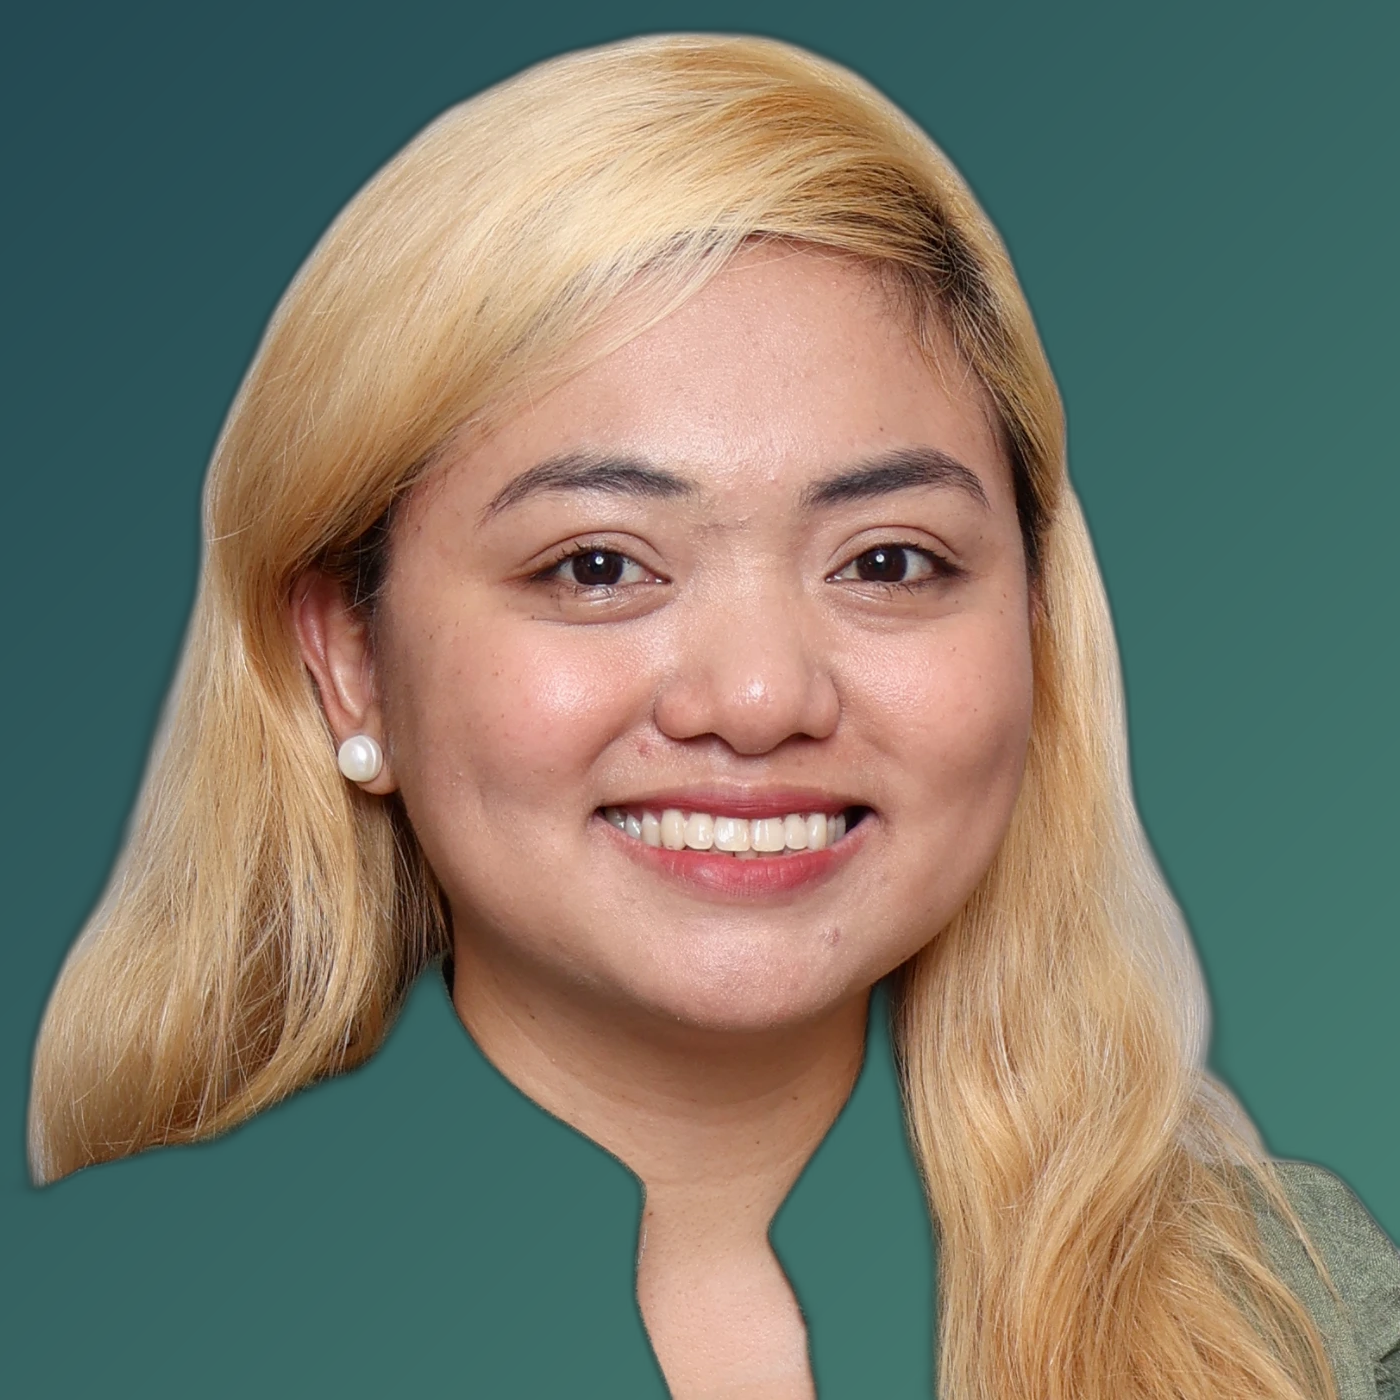
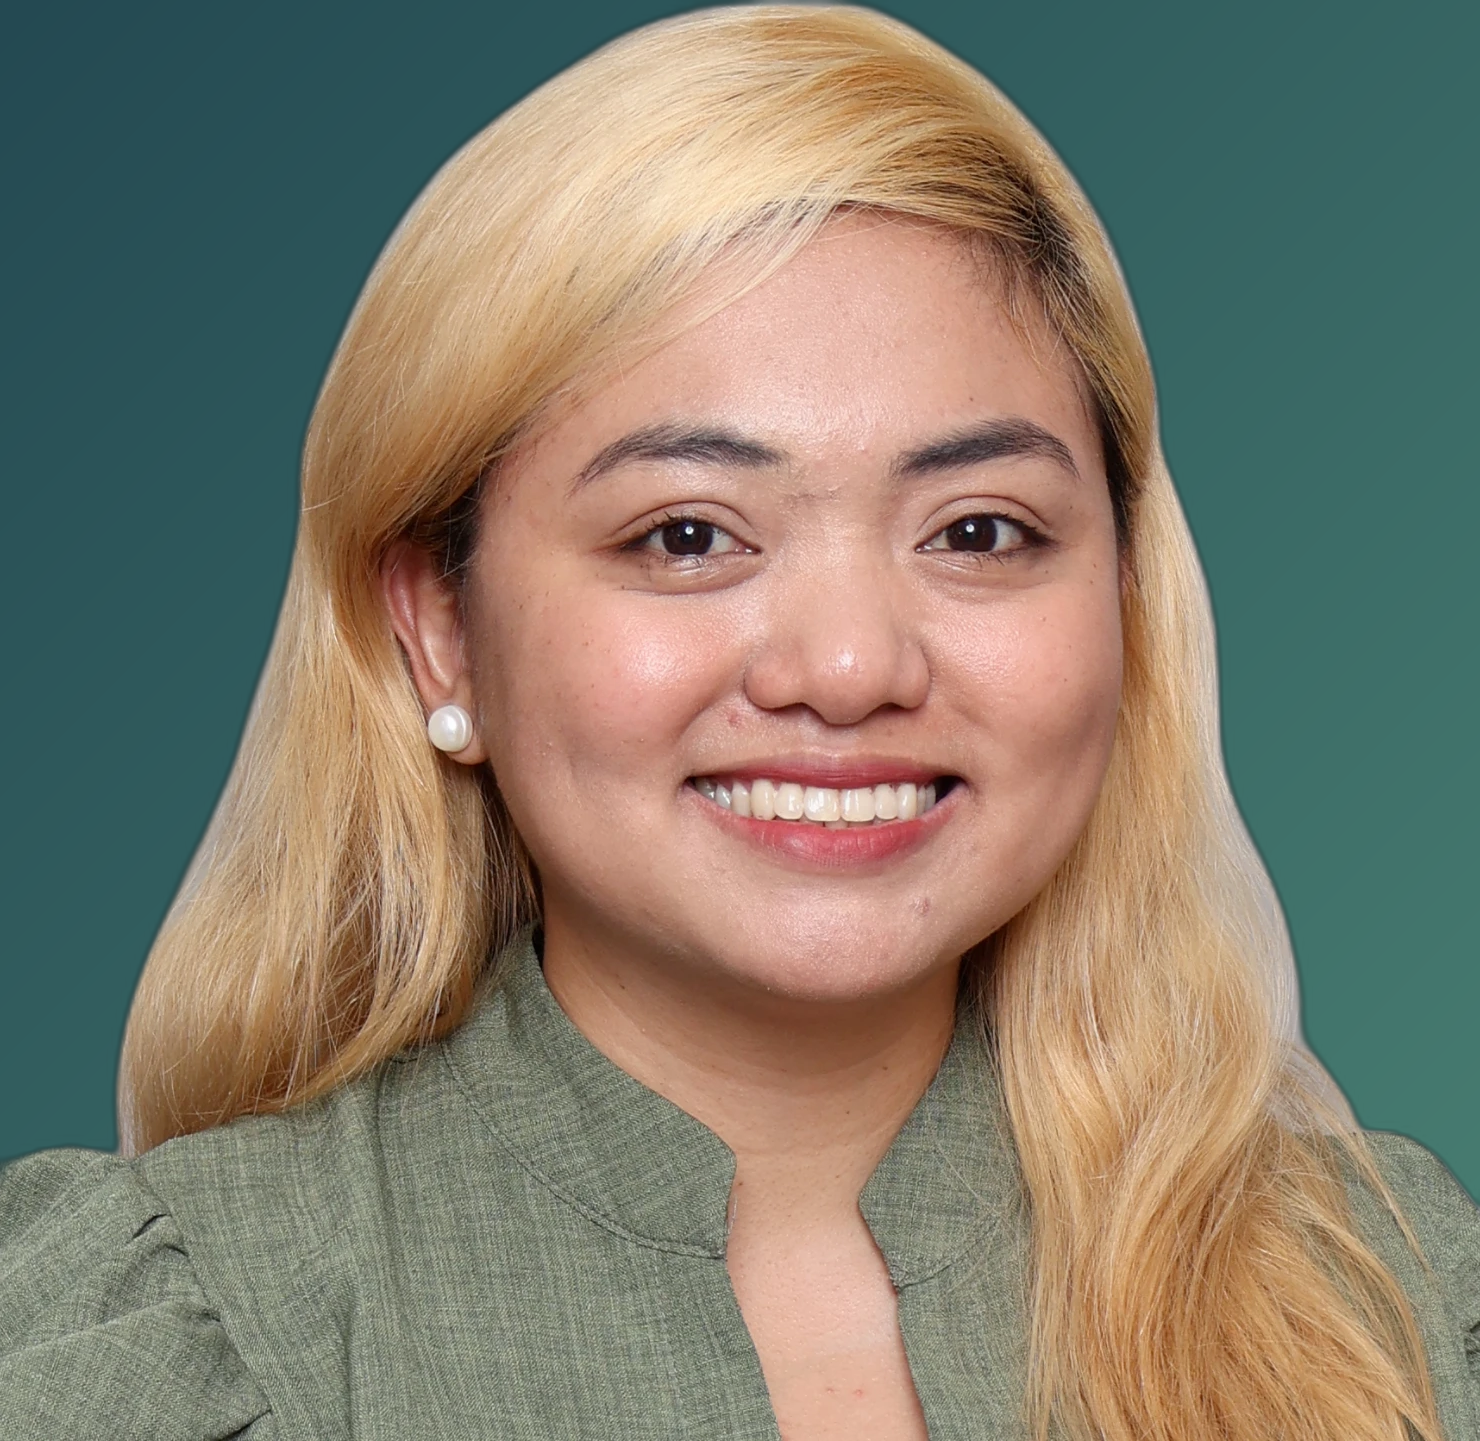
leadership: re-crop Hannah to include shoulders/clothes; bump leader img cache to v3

diff --git a/index.html b/index.html
@@ -697,7 +697,7 @@
 
       <!-- Hannah Jara -->
       <div class="leader-card reveal">
-        <div class="leader-avatar"><img src="LEADERSHIP PICTURES/HANNAH JARA.png?v=2" alt="Hannah P. Jara"></div>
+        <div class="leader-avatar"><img src="LEADERSHIP PICTURES/HANNAH JARA.png?v=3" alt="Hannah P. Jara"></div>
         <div class="leader-name">Hannah P. Jara</div>
         <div class="leader-creds">MBA, MPH, PTRP</div>
         <div class="leader-role">President & CEO, Sapphire Clinics East, Inc.</div>
@@ -706,7 +706,7 @@
 
       <!-- Ariel Jan Carlo Gonzales -->
       <div class="leader-card reveal delay-1">
-        <div class="leader-avatar"><img src="LEADERSHIP PICTURES/ARIEL JAN CARLO GONZALES.png?v=2" alt="Ariel Jan Carlo Gonzales"></div>
+        <div class="leader-avatar"><img src="LEADERSHIP PICTURES/ARIEL JAN CARLO GONZALES.png?v=3" alt="Ariel Jan Carlo Gonzales"></div>
         <div class="leader-name">Ariel Jan Carlo Gonzales</div>
         <div class="leader-creds">MBA</div>
         <div class="leader-role">Treasurer, SCEI</div>
@@ -715,7 +715,7 @@
 
       <!-- Anna Kaye Hao Lim -->
       <div class="leader-card reveal delay-2">
-        <div class="leader-avatar"><img src="LEADERSHIP PICTURES/ANNA KAYE LIM.png?v=2" alt="Anna Kaye Hao Lim"></div>
+        <div class="leader-avatar"><img src="LEADERSHIP PICTURES/ANNA KAYE LIM.png?v=3" alt="Anna Kaye Hao Lim"></div>
         <div class="leader-name">Anna Kaye Hao Lim</div>
         <div class="leader-creds">MBA</div>
         <div class="leader-role">Board Member, SCEI</div>
@@ -724,7 +724,7 @@
 
       <!-- Abram Paez Barrameda -->
       <div class="leader-card reveal">
-        <div class="leader-avatar"><img src="LEADERSHIP PICTURES/ABRAM BARRAMEDA.png?v=2" alt="Abram Paez Barrameda"></div>
+        <div class="leader-avatar"><img src="LEADERSHIP PICTURES/ABRAM BARRAMEDA.png?v=3" alt="Abram Paez Barrameda"></div>
         <div class="leader-name">Abram Paez Barrameda</div>
         <div class="leader-creds">MBA</div>
         <div class="leader-role">Board Member, SCEI</div>
@@ -733,7 +733,7 @@
 
       <!-- Jireh Annette De Guzman Concepcion -->
       <div class="leader-card reveal delay-1">
-        <div class="leader-avatar"><img src="LEADERSHIP PICTURES/JIREH CONCEPCION.png?v=2" alt="Jireh Annette De Guzman Concepcion"></div>
+        <div class="leader-avatar"><img src="LEADERSHIP PICTURES/JIREH CONCEPCION.png?v=3" alt="Jireh Annette De Guzman Concepcion"></div>
         <div class="leader-name">Jireh Annette De Guzman Concepcion</div>
         <div class="leader-creds">BA Economics</div>
         <div class="leader-role">Corporate Secretary, SCEI</div>
